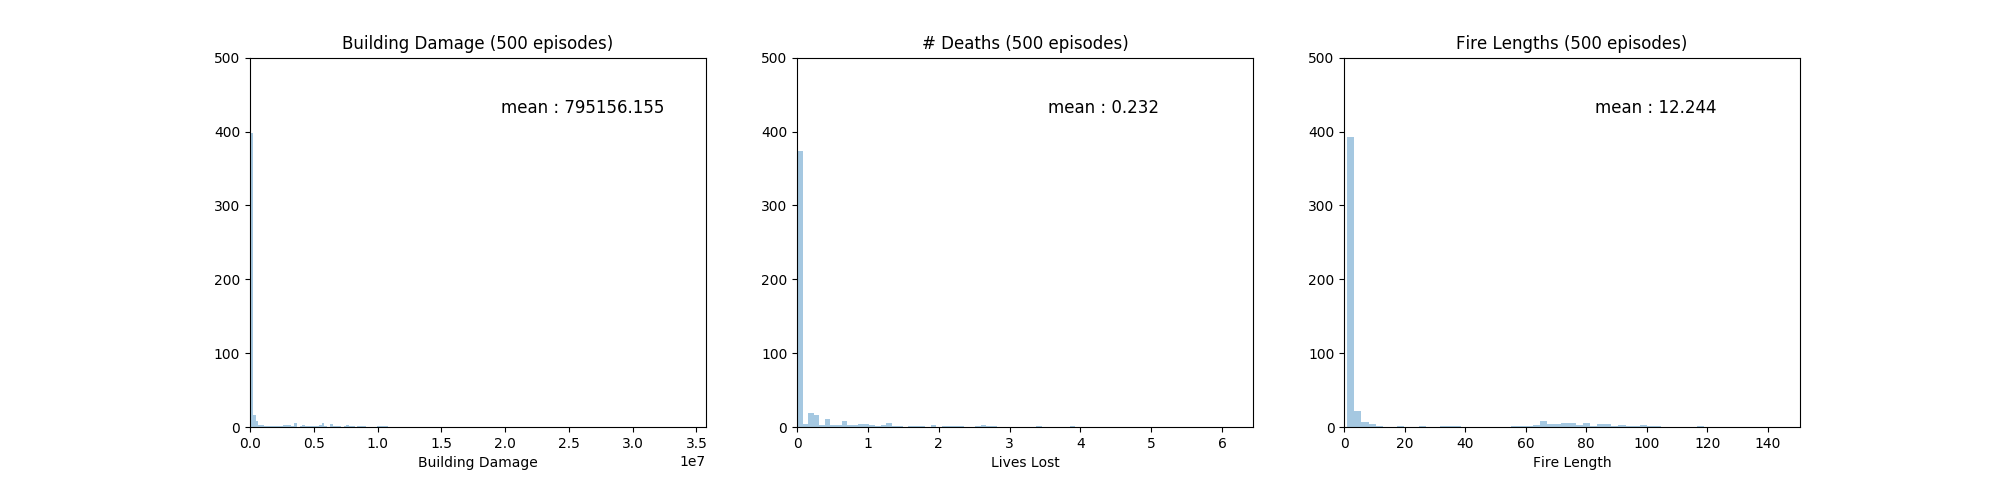
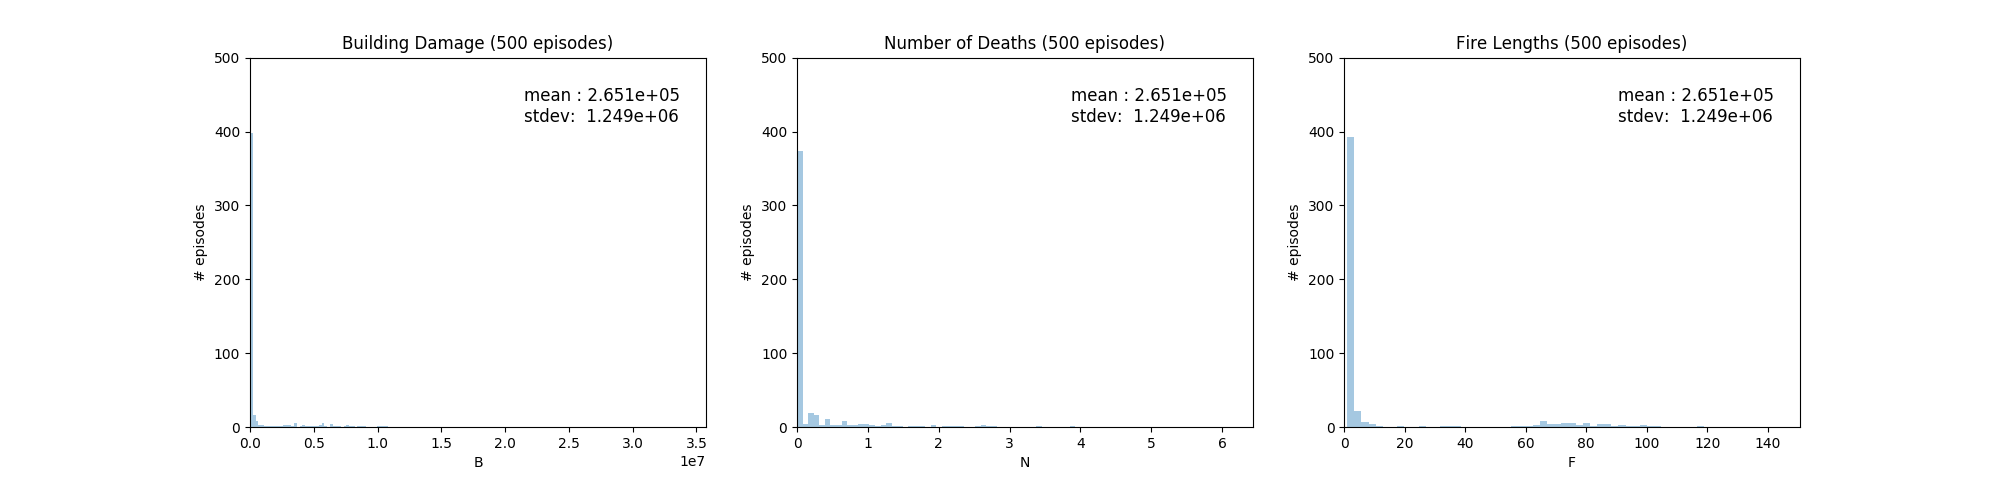
histograms are nicer

diff --git a/histogram_gen.py b/histogram_gen.py
@@ -7,8 +7,9 @@ map_names = ['CityGrid_JeffersonCounty_CSV', 'JeffCo_firebreaks']
 scenarios = {'CityGrid_JeffersonCounty_CSV': ['InitialValues', 'DefensibleSpace', 'IWUIC', 'Buildings', 'Vegetation'],
 			 'JeffCo_firebreaks': ['InitialValues']}
 hist_names = ['damage_hist', 'lives_hist', 'length_hist']
-hist_titles = ['Building Damage', '# Deaths', 'Fire Lengths']
-hist_axis_labels = [('Building Damage', 'Proportion of Fires'), ('Lives Lost', 'Proportion of Fires'), ('Fire Length', 'Proportion of Fires')]
+hist_titles = ['Building Damage', 'Number of Deaths', 'Fire Lengths']
+hist_axis_labels = ['Building Damage ($)', 'Number of Deaths', 'Fire Length (time steps)']
+ylabel = '# episodes'
 
 n = len(hist_names)
 hists = []
@@ -39,8 +40,8 @@ for scenario, file_name in zip(hists, file_names):
 	for i in range(n):
 		axs[i] = sns.distplot(a=scenario[i], ax=axs[i], hist=True, kde=False, norm_hist=False, axlabel=hist_axis_labels[i][0])
 		axs[i].set_title(hist_titles[i] + ' (' + str(num_episodes) + ' episodes)')
-		# ax[i].set(xlabel = hist_axis_labels[i][0], ylabel = hist_axis_labels[i][1])
-		axs[i].text(hist_maxes[i]*0.55,num_episodes*0.85,'mean : ' + str(np.round(np.mean(scenario[i]),3)),fontsize=12)
+		axs[i].set(ylabel = ylabel)
+		axs[i].text(hist_maxes[i]*0.6,num_episodes*0.825,'mean : {0:.3e}\nstdev:  {1:.3e}'.format(np.mean(scenario), np.std(scenario)) ,fontsize=12)
 		axs[i].set_xlim(left=0,right=hist_maxes[i])
 		axs[i].set_ylim(bottom=0,top=num_episodes)
 
